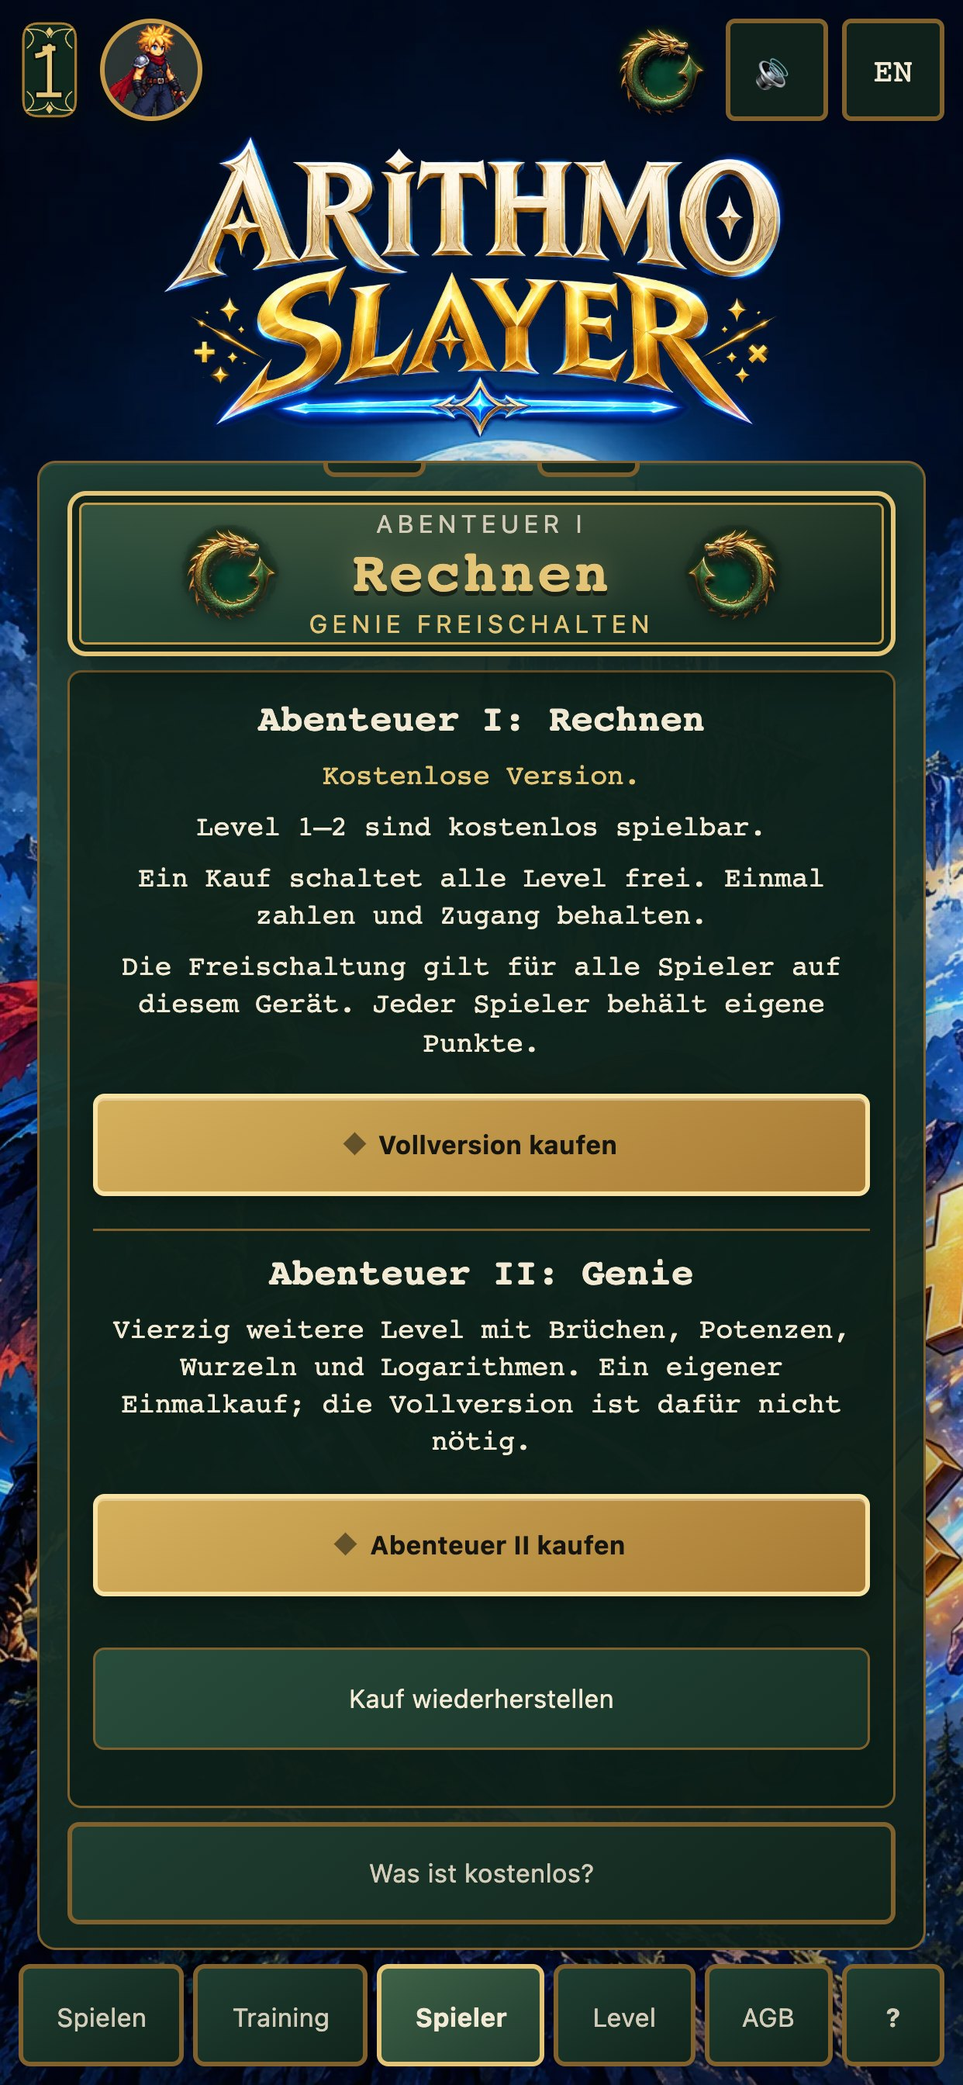
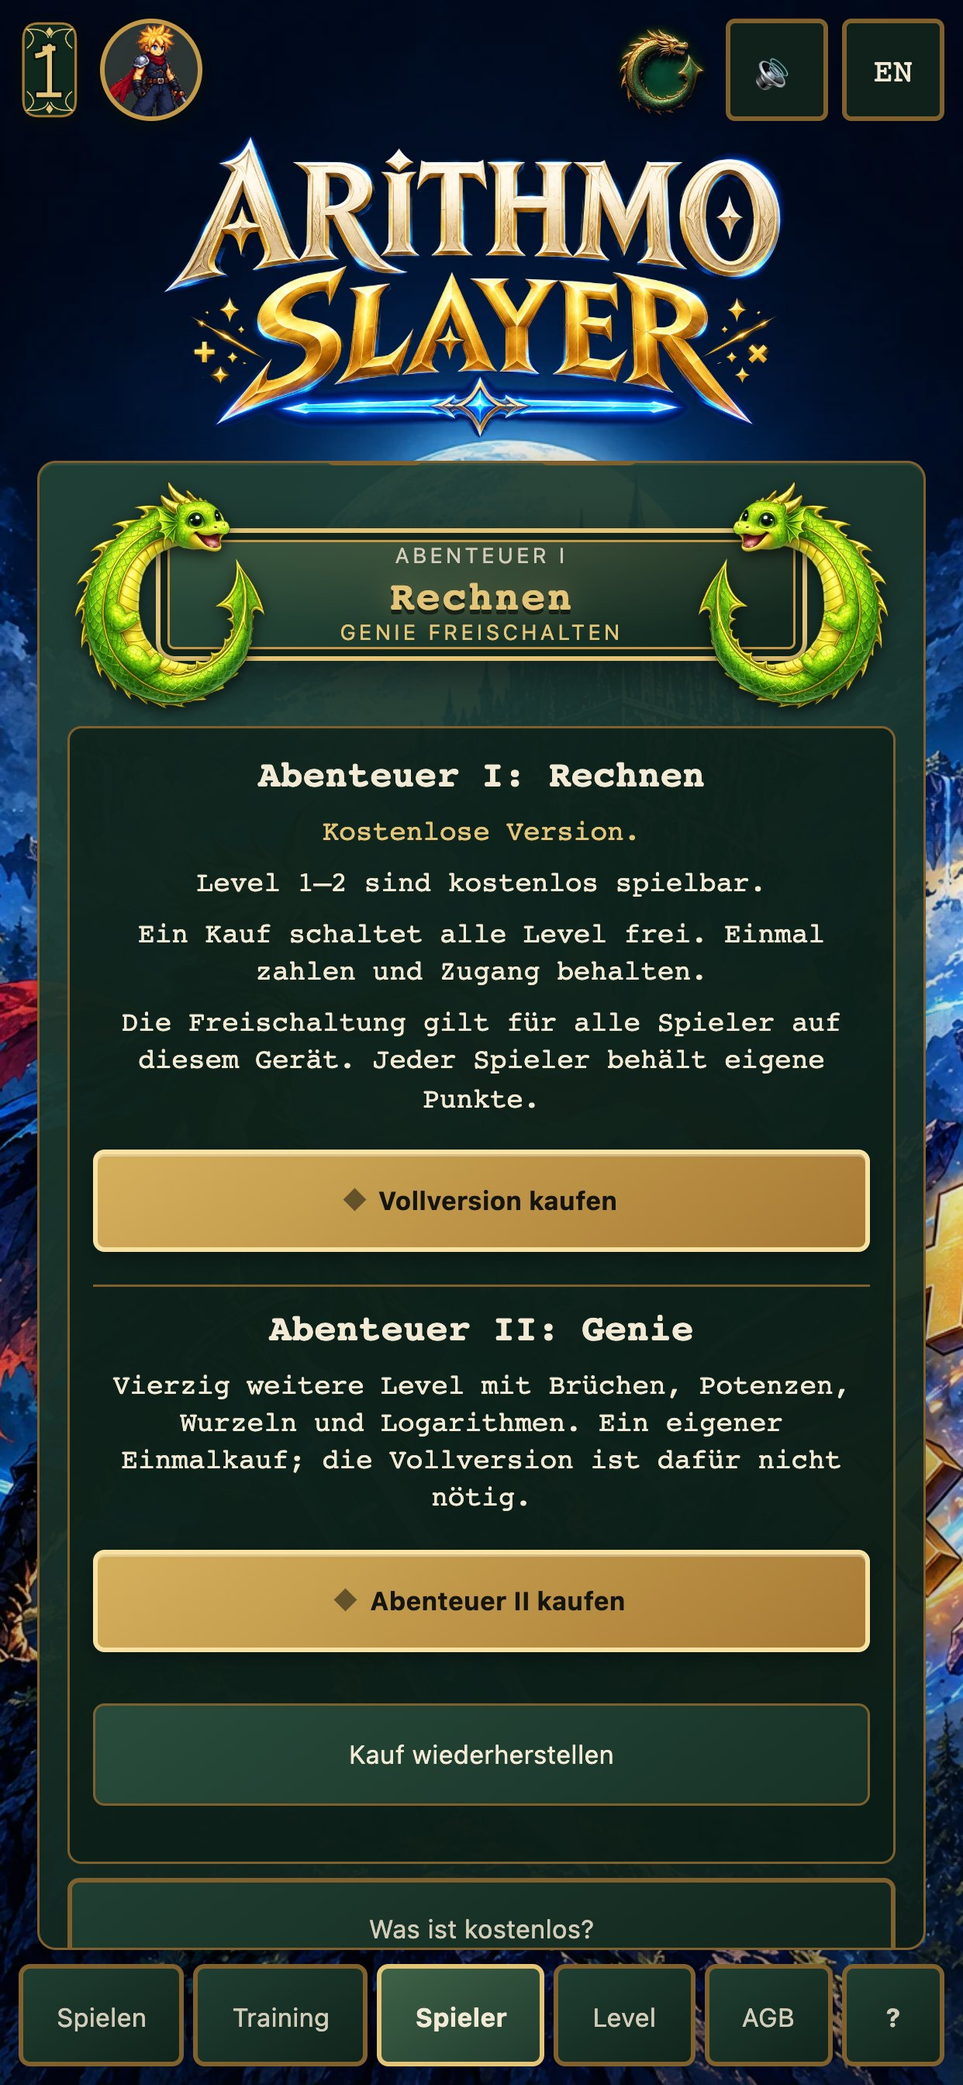
feat(ffm): young and ancient dragons frame the campaign switch
The brass dragon rings on the campaign switch and the title's Campaign II picture are
replaced by the new art (game/art/ui/): a young dragon pair while the button names
Campaign I, an ancient pair for Campaign II (campaignDragon() in campaign2/selection.js,
swapped by renderCampaignSwitch). The pieces are absolutely placed half outside the
button and overhang it; everything is derived from one height (--switch-h) that follows
the column and viewport, so the button reserves exactly the side padding, narrower width
and vertical margin the dragons need and the three text lines always fit the frame. A
300px-narrow column gets slightly smaller dragons, a short landscape title a flatter
ancient pair. Placed with translate/scale, not transform (reduced-motion resets it).

The four webp files are required bundle files for the apps (bundle-check); the art's
PROVENANCE.md stays out of the bundle. Review screenshots recaptured.

Changed region(s): [[0.0612, 0.2188, 0.9485, 0.9375]]

diff --git a/sites/ffm/static/styles.css b/sites/ffm/static/styles.css
@@ -3641,17 +3641,22 @@ body:not(.legal-body) {
 .m2-paren { opacity: 0.9; }
 .m2-log { margin-right: 0.15em; }
 
-/* The campaign switch (Players page in the app, Play page on the web) and the
- * Campaign II picture on the app's title screen. They wear the menu colours:
- * a forest panel inside the thick-and-thin brass frame of the level numerals,
- * with the brass dragon ring of the intro button on both sides (its circular
- * arrow doubles as "switch"). The text is the game's own: the heading monospace
- * for the campaign name, the UI face for the small lines.
+/* The campaign switch (Players page in the app, account profile on the web) and the
+ * Campaign II picture on the title screen. They wear the menu colours: a forest panel
+ * inside the thick-and-thin brass frame of the level numerals. A pair of dragons frames
+ * the button, one curled around each end: a young dragon while it names Campaign I, an
+ * ancient one for Campaign II (data-dragon, swapped by main.js; art in game/art/ui/). The
+ * text is the game's own: the heading monospace for the campaign name, the UI face for the
+ * small lines.
  *
- * Everything is sized from the space the switch gets (container width capped by
- * the viewport height on the switch, viewport-min units on the title picture,
- * which has no container of its own), so a 320px phone or a short
- * landscape band shrinks it instead of letting the name run out of the frame. */
+ * Everything is derived from one height, --switch-h, which follows the space the switch
+ * gets (container width capped by the viewport height on the switch, viewport-min units on
+ * the title picture, which has no container of its own). The dragons are that height times
+ * --dragon-scale tall, sit half outside the button and overhang above and below; the button
+ * reserves exactly that room (side padding so the text clears them, a narrower width so
+ * their outer halves stay inside the column, vertical margin for the overhang). So a 320px
+ * phone or a short landscape band shrinks the whole piece instead of letting the name or a
+ * dragon run out of the frame. */
 .campaign-switch {
   container-type: inline-size;
   display: flex;
@@ -3664,13 +3669,24 @@ body:not(.legal-body) {
 }
 .campaign-switch[hidden] { display: none; }
 .campaign-switch-btn, .campaign-emblem {
+  /* Young dragon (Campaign I): 402x480 art, 1.75x the button tall. */
+  --dragon-scale: 1.75;
+  --dragon-aspect: 0.8375;
+  --dragon-w: calc(var(--switch-h) * var(--dragon-scale) * var(--dragon-aspect));
+  /* How far each piece reaches out of the button: 45% of its width. */
+  --dragon-out: calc(var(--dragon-w) * 0.45);
   position: relative;
   display: flex;
   align-items: center;
   justify-content: center;
   box-sizing: border-box;
   min-width: 0;
+  height: var(--switch-h);
   min-height: 44px;
+  margin-block: calc(var(--switch-h) * (var(--dragon-scale) - 1) / 2);
+  padding-block: 0;
+  padding-inline: calc(var(--dragon-w) * 0.55);
+  overflow: visible;
   border: 2px solid var(--brass-light);
   border-radius: 8px;
   background:
@@ -3683,25 +3699,36 @@ body:not(.legal-body) {
   cursor: pointer;
   touch-action: manipulation;
 }
+/* Ancient dragon (Campaign II): 354x480 art, 2.1x the button tall. */
+:is(.campaign-switch-btn, .campaign-emblem)[data-dragon="ancient"] {
+  --dragon-scale: 2.1;
+  --dragon-aspect: 0.7375;
+}
 .campaign-switch-btn {
-  gap: clamp(4px, min(3cqi, 3vh), 14px);
-  width: min(100%, 440px);
-  max-width: 100%;
-  padding: clamp(3px, min(1.6cqi, 1.5vh), 10px) clamp(6px, 3cqi, 16px);
+  --switch-h: clamp(56px, min(16cqi, 13vh), 80px);
+  width: min(calc(100% - 2 * var(--dragon-out)), 440px);
+  max-width: calc(100% - 2 * var(--dragon-out));
 }
 .campaign-switch-btn:hover { border-color: var(--focus-ring); background: radial-gradient(120% 140% at 50% 0%, rgba(228, 197, 119, 0.26), transparent 62%), linear-gradient(145deg, #315641, #19372b); }
-.campaign-switch-btn:active { transform: scale(0.98); }
+.campaign-switch-btn:active { scale: 0.98; }
 .campaign-switch-btn:focus-visible, .campaign-emblem:focus-visible { outline: 3px solid var(--focus-ring); outline-offset: 2px; }
+/* The pieces are decoration over the frame: absolutely placed, vertically centred, half
+ * outside. `translate`, not `transform`: the reduced-motion rule resets transform on every
+ * element and would pull the dragons back into the text. */
 .campaign-switch-dragon {
-  flex: 0 1 auto;
-  width: clamp(24px, min(13cqi, 12vh), 56px);
-  height: auto;
-  aspect-ratio: 1;
-  object-fit: contain;
+  position: absolute;
+  top: 50%;
+  height: calc(var(--switch-h) * var(--dragon-scale));
+  width: auto;
+  max-width: none;
+  pointer-events: none;
   filter: drop-shadow(0 2px 3px rgba(0, 0, 0, 0.6));
 }
-.campaign-switch-dragon--mirror { transform: scaleX(-1); }
+.campaign-switch-dragon--left { left: 0; translate: -45% -50%; }
+.campaign-switch-dragon--right { right: 0; translate: 45% -50%; }
 .campaign-switch-text {
+  position: relative;
+  z-index: 1;
   display: flex;
   flex-direction: column;
   align-items: center;
@@ -3711,8 +3738,10 @@ body:not(.legal-body) {
 }
 .campaign-switch-eyebrow, .campaign-switch-status {
   font-family: var(--font-ui);
-  font-size: clamp(9px, min(3cqi, 3.4vh), 12px);
-  letter-spacing: 0.18em;
+  /* The three lines are sized from the button height, so they always fit inside the
+   * double frame: 1.15 x (0.16 + 0.31 + 0.16) of it, plus the 12px of frame. */
+  font-size: calc(var(--switch-h) * 0.16);
+  letter-spacing: 0.14em;
   text-transform: uppercase;
   white-space: nowrap;
 }
@@ -3720,12 +3749,20 @@ body:not(.legal-body) {
 .campaign-switch-status { color: var(--brass-light); }
 .campaign-switch-title {
   font-family: var(--font-prose);
-  font-size: clamp(14px, min(7cqi, 6.5vh), 28px);
+  font-size: calc(var(--switch-h) * 0.31);
   font-weight: 700;
   letter-spacing: 0.04em;
   white-space: nowrap;
   color: var(--brass-light);
   text-shadow: 0 2px 0 rgba(0, 0, 0, 0.55), 0 0 12px rgba(228, 197, 119, 0.35);
+}
+/* A narrow column (a 320px phone) cannot give the name, "Switch to Arithmetic" and two
+ * full-size dragons their room at a readable size: the dragons get a little smaller and
+ * the small lines tighten their spacing, instead of the text running into the dragons. */
+@container (max-width: 300px) {
+  .campaign-switch-btn[data-dragon] { --dragon-scale: 1.45; }
+  .campaign-switch-btn[data-dragon="ancient"] { --dragon-scale: 1.7; }
+  .campaign-switch-btn :is(.campaign-switch-eyebrow, .campaign-switch-status) { letter-spacing: 0.06em; }
 }
 /* Campaign II is the one being played: the dragons glow a little brighter. */
 .campaign-switch-btn[aria-pressed="true"] .campaign-switch-dragon { filter: drop-shadow(0 0 6px rgba(228, 197, 119, 0.7)); }
@@ -3733,16 +3770,20 @@ body:not(.legal-body) {
  * viewport side: a landscape phone's 320px height shrinks it like a portrait
  * phone's 320px width. */
 .campaign-emblem {
-  gap: clamp(4px, 2vmin, 12px);
+  --switch-h: clamp(38px, 9vmin, 60px);
   width: auto;
-  max-width: 100%;
-  margin: 0 auto;
-  padding: clamp(3px, 1vmin, 8px) clamp(6px, 2.5vmin, 14px);
+  max-width: calc(100% - 2 * var(--dragon-out));
+  margin-inline: auto;
 }
 .campaign-emblem[hidden] { display: none; }
-.campaign-emblem .campaign-switch-dragon { width: clamp(22px, 8vmin, 44px); }
-.campaign-emblem .campaign-switch-eyebrow { font-size: clamp(8px, 2.4vmin, 11px); }
-.campaign-emblem .campaign-switch-title { font-size: clamp(13px, 4.6vmin, 24px); }
+/* A phone held sideways has no height to spare in the title's intro column: the ancient
+ * dragons barely overhang there, so the picture does not push "Choose your difficulty"
+ * under the navigation. */
+@media (orientation: landscape) and (max-height: 460px) {
+  .campaign-emblem[data-dragon="ancient"] { --dragon-scale: 1.3; }
+}
+.campaign-emblem .campaign-switch-eyebrow { font-size: calc(var(--switch-h) * 0.2); }
+.campaign-emblem .campaign-switch-title { font-size: calc(var(--switch-h) * 0.38); }
 /* end campaign switch */
 .m2-intro-math { font-size: 1.8em; text-align: center; margin: 0.4em 0; }
 .mc-btn .m2-expr { font-size: 1.15em; justify-content: center; }

diff --git a/sites/ffm/static/game/campaign-switch.test.js b/sites/ffm/static/game/campaign-switch.test.js
@@ -4,7 +4,7 @@
 import { test } from 'node:test';
 import assert from 'node:assert/strict';
 import { readFileSync } from 'node:fs';
-import { createCampaignSelection, SELECTION_KEY_PREFIX } from './campaign2/selection.js';
+import { createCampaignSelection, SELECTION_KEY_PREFIX, campaignDragon, campaignDragonSrc } from './campaign2/selection.js';
 
 const i18n = readFileSync(new URL('./i18n.js', import.meta.url), 'utf8');
 const main = readFileSync(new URL('./main.js', import.meta.url), 'utf8');
@@ -68,7 +68,7 @@ test('Campaign II is offered with no level gate and no reveal flag', () => {
 });
 
 test('the title shows the Campaign II picture only while it is chosen, and it leads to the switch', () => {
-  assert.match(html, /<button type="button" id="campaign-emblem" class="campaign-emblem" data-title-target="family" hidden/);
+  assert.match(html, /<button type="button" id="campaign-emblem" class="campaign-emblem" data-title-target="family" data-dragon="ancient" hidden/);
   assert.match(main, /emblem\.hidden = wrap\.hidden \|\| selectedCampaign !== 2;/);
   // The web has no Players page: the picture opens the account profile that holds the switch.
   assert.match(main, /emblem\.removeAttribute\('data-title-target'\);[\s\S]{0,400}showAccountTab\(tabAccountProfile, accountProfilePanel\);/);
@@ -87,11 +87,56 @@ test('the switch names the campaign being played, with dragons and in the menu c
   assert.doesNotMatch(rules.slice(0, rules.indexOf('/* end campaign switch */')), /#7c4dff|#cdb6ff|purple/i);
 });
 
-test('the switch and the picture scale with the space they get', () => {
+test('the switch and the picture scale with the space they get, dragons included', () => {
   const rules = css.slice(css.indexOf('.campaign-switch {'), css.indexOf('/* end campaign switch */'));
-  assert.match(rules, /\.campaign-switch-btn \{[^}]*max-width: 100%;/);
-  assert.match(rules, /\.campaign-switch-title \{[^}]*font-size: clamp\(/);
   assert.match(rules, /container-type: inline-size;/);
+  // One height drives everything; the switch follows its column and the viewport height.
+  assert.match(rules, /\.campaign-switch-btn \{\s*--switch-h: clamp\([^;]*cqi[^;]*vh[^;]*\);/);
+  assert.match(rules, /\.campaign-emblem \{\s*--switch-h: clamp\([^;]*vmin[^;]*\);/);
+  // The dragons' outer halves stay inside the column (the old small-screen overflow).
+  assert.match(rules, /width: min\(calc\(100% - 2 \* var\(--dragon-out\)\), 440px\);/);
+  assert.match(rules, /max-width: calc\(100% - 2 \* var\(--dragon-out\)\);/);
+  // The text clears the dragons and fits in the frame, the overhang has its room.
+  assert.match(rules, /padding-inline: calc\(var\(--dragon-w\) \* 0\.55\);/);
+  assert.match(rules, /margin-block: calc\(var\(--switch-h\) \* \(var\(--dragon-scale\) - 1\) \/ 2\);/);
+  assert.match(rules, /\.campaign-switch-title \{[^}]*font-size: calc\(var\(--switch-h\) \* 0\.31\);/);
+  // Pieces are placed with translate, never transform (the reduced-motion rule resets transform).
+  assert.match(rules, /\.campaign-switch-dragon--left \{ left: 0; translate: -45% -50%; \}/);
+  assert.match(rules, /\.campaign-switch-dragon--right \{ right: 0; translate: 45% -50%; \}/);
+  assert.doesNotMatch(rules, /(^|[^-])transform:/m);
+  assert.match(rules, /@container \(max-width: 300px\)/, 'a 320px phone gets smaller dragons, not clipped text');
+});
+
+test('the right dragon frames each campaign, and every piece exists', () => {
+  assert.deepEqual(campaignDragon(1), { kind: 'young', width: 402, height: 480 });
+  assert.deepEqual(campaignDragon(2), { kind: 'ancient', width: 354, height: 480 });
+  assert.equal(campaignDragon(undefined).kind, 'young', 'anything but Campaign II is Campaign I');
+  for (const campaign of [1, 2]) {
+    const { kind, width, height } = campaignDragon(campaign);
+    for (const side of ['left', 'right']) {
+      const src = campaignDragonSrc(kind, side);
+      const file = readFileSync(new URL(`../${src}`, import.meta.url));
+      // RIFF....WEBP, and the VP8X canvas size matches the declared width/height.
+      assert.equal(file.toString('latin1', 0, 4), 'RIFF', src);
+      assert.equal(file.toString('latin1', 8, 12), 'WEBP', src);
+      if (file.toString('latin1', 12, 16) === 'VP8X') {
+        assert.equal(file.readUIntLE(24, 3) + 1, width, `${src} width`);
+        assert.equal(file.readUIntLE(27, 3) + 1, height, `${src} height`);
+      }
+    }
+  }
+  // The markup starts in Campaign I (young) on the switch; the title picture is Campaign II (ancient).
+  const button = html.slice(html.indexOf('id="genius-campaign-btn"'), html.indexOf('</button>', html.indexOf('id="genius-campaign-btn"')));
+  assert.match(html, /id="genius-campaign-btn" class="campaign-switch-btn" data-dragon="young"/);
+  assert.match(button, /src="game\/art\/ui\/campaign-dragon-young-left\.webp" alt="" width="402" height="480"/);
+  assert.match(button, /src="game\/art\/ui\/campaign-dragon-young-right\.webp" alt="" width="402" height="480"/);
+  const emblem = html.slice(html.indexOf('id="campaign-emblem"'), html.indexOf('</button>', html.indexOf('id="campaign-emblem"')));
+  assert.match(emblem, /campaign-dragon-ancient-left\.webp" alt="" width="354" height="480"/);
+  assert.match(emblem, /campaign-dragon-ancient-right\.webp" alt="" width="354" height="480"/);
+  // main.js swaps the pair with the campaign the button names.
+  assert.match(main, /const dragon = campaignDragon\(selectedCampaign\);[\s\S]{0,500}piece\.src = campaignDragonSrc\(dragon\.kind, side\);/);
+  assert.match(css, /\[data-dragon="ancient"\] \{\s*--dragon-scale: 2\.1;\s*--dragon-aspect: 0\.7375;/);
+  assert.doesNotMatch(html, /campaign-switch-dragon--mirror|campaign-switch-dragon" src="game\/intro-replay/);
 });
 
 test('the web profile that holds the switch scrolls instead of cutting it off', () => {

diff --git a/sites/ffm/static/index.html b/sites/ffm/static/index.html
@@ -107,26 +107,28 @@
       <!-- The picture of Campaign II, shown while the active player has chosen it. The switch
            itself lives on the Players page in the app and in the account profile on the web
            (main.js moves it there); a tap on the picture leads to it. -->
-      <button type="button" id="campaign-emblem" class="campaign-emblem" data-title-target="family" hidden data-i18n-aria-label="campaign.emblem" aria-label="Campaign II: Genius. Change it on the Players page.">
-        <img class="campaign-switch-dragon" src="game/intro-replay.webp" alt="" width="176" height="176">
+      <button type="button" id="campaign-emblem" class="campaign-emblem" data-title-target="family" data-dragon="ancient" hidden data-i18n-aria-label="campaign.emblem" aria-label="Campaign II: Genius. Change it on the Players page.">
+        <img class="campaign-switch-dragon campaign-switch-dragon--left" src="game/art/ui/campaign-dragon-ancient-left.webp" alt="" width="354" height="480">
         <span class="campaign-switch-text" aria-hidden="true">
           <span class="campaign-switch-eyebrow" data-i18n="campaign.switch.eyebrow2">Campaign II</span>
           <span class="campaign-switch-title" data-i18n="campaign.switch.title2">Genius</span>
         </span>
-        <img class="campaign-switch-dragon campaign-switch-dragon--mirror" src="game/intro-replay.webp" alt="" width="176" height="176">
+        <img class="campaign-switch-dragon campaign-switch-dragon--right" src="game/art/ui/campaign-dragon-ancient-right.webp" alt="" width="354" height="480">
       </button>
       <!-- Always offered (campaign2/access.js): Campaign II needs no Campaign I progress and not
            the full unlock. Names the campaign being played; a tap switches to the other one, or
            opens the Campaign II purchase (app) or the subscription (web) while it is locked. -->
       <div id="genius-campaign" class="campaign-switch" hidden>
-        <button type="button" id="genius-campaign-btn" class="campaign-switch-btn" aria-pressed="false">
-          <img class="campaign-switch-dragon" src="game/intro-replay.webp" alt="" width="176" height="176">
+        <!-- The dragons follow the campaign being played: young for Campaign I, ancient for
+             Campaign II (main.js swaps them; art and provenance in game/art/ui/). -->
+        <button type="button" id="genius-campaign-btn" class="campaign-switch-btn" data-dragon="young" aria-pressed="false">
+          <img class="campaign-switch-dragon campaign-switch-dragon--left" src="game/art/ui/campaign-dragon-young-left.webp" alt="" width="402" height="480">
           <span class="campaign-switch-text">
             <span class="campaign-switch-eyebrow" id="genius-eyebrow" data-i18n="campaign.switch.eyebrow1">Campaign I</span>
             <span class="campaign-switch-title" id="genius-title" data-i18n="campaign.switch.title1">Arithmetic</span>
             <span class="campaign-switch-status" id="genius-status" data-i18n="campaign.switch.toGenius">Switch to Genius</span>
           </span>
-          <img class="campaign-switch-dragon campaign-switch-dragon--mirror" src="game/intro-replay.webp" alt="" width="176" height="176">
+          <img class="campaign-switch-dragon campaign-switch-dragon--right" src="game/art/ui/campaign-dragon-young-right.webp" alt="" width="402" height="480">
         </button>
         <p id="campaign2-note" class="splash-subtitle" hidden></p>
       </div>

diff --git a/sites/ffm/static/game/main.js b/sites/ffm/static/game/main.js
@@ -74,7 +74,7 @@ import { bossRoundKinds2, isBossRoundLevel2, TOTAL_LEVELS_2 } from './campaign2/
 import { getCampaign2LevelConfig, ABILITY_LEVEL } from './campaign2/config.js';
 import { getSkillIntro2, INTRO_TEXT_2 } from './campaign2/intro-text.js';
 import { createCampaign2Progress } from './campaign2/progress.js';
-import { createCampaignSelection } from './campaign2/selection.js';
+import { createCampaignSelection, campaignDragon, campaignDragonSrc } from './campaign2/selection.js';
 import { campaign2Access, campaignSwitchVisible } from './campaign2/access.js';
 import { expressionHtml } from './campaign2/math-render.js';
 import { runestoneDataUri } from './runestone.js';
@@ -2203,6 +2203,18 @@ async function renderCampaignSwitch() {
     set('genius-status', inTwo ? 'campaign.switch.toArithmetic' : access.granted ? 'campaign.switch.toGenius' : 'campaign.switch.unlock');
     button.setAttribute('aria-pressed', String(inTwo));
     button.dataset.campaign = String(selectedCampaign);
+    // The dragon pair belongs to the campaign the button names: young for I, ancient for II.
+    const dragon = campaignDragon(selectedCampaign);
+    if (button.dataset.dragon !== dragon.kind) {
+      button.dataset.dragon = dragon.kind;
+      for (const side of ['left', 'right']) {
+        const piece = button.querySelector(`.campaign-switch-dragon--${side}`);
+        if (!piece) continue;
+        piece.width = dragon.width;
+        piece.height = dragon.height;
+        piece.src = campaignDragonSrc(dragon.kind, side);
+      }
+    }
     const note = document.getElementById('campaign2-note');
     if (note) {
       note.hidden = access.granted || !inTwo;

diff --git a/sites/ffm/static/game/campaign2/selection.js b/sites/ffm/static/game/campaign2/selection.js
@@ -21,3 +21,22 @@ export function createCampaignSelection({ storage = globalThis.localStorage, pla
     },
   };
 }
+
+// The dragons that frame the campaign switch: a young one for Campaign I (Arithmetic), an
+// ancient one for Campaign II (Genius). Each is a left and a right piece (game/art/ui/, see
+// its PROVENANCE.md); width/height are the files' pixel sizes, so the <img> keeps its
+// aspect before the picture has loaded.
+export const CAMPAIGN_DRAGONS = Object.freeze({
+  1: Object.freeze({ kind: 'young', width: 402, height: 480 }),
+  2: Object.freeze({ kind: 'ancient', width: 354, height: 480 }),
+});
+
+/** The dragon of a campaign (anything but 2 is Campaign I). */
+export function campaignDragon(campaign) {
+  return CAMPAIGN_DRAGONS[campaign === 2 ? 2 : 1];
+}
+
+/** The page-relative path of one piece: side is 'left' or 'right'. */
+export function campaignDragonSrc(kind, side) {
+  return `game/art/ui/campaign-dragon-${kind}-${side}.webp`;
+}

diff --git a/sites/ffm/static/game/art/ui/PROVENANCE.md b/sites/ffm/static/game/art/ui/PROVENANCE.md
@@ -11,7 +11,7 @@ the two ends match exactly.
 | `campaign-dragon-ancient-left.webp` | 354x480 | `c4735d903ea1` |
 | `campaign-dragon-ancient-right.webp` | 354x480 | `24a1f8c46006` |
 
-Not wired into the game yet. This is art only.
+Wired into the campaign switch and the title-screen Campaign II picture (`static/index.html`, `styles.css`, `game/campaign2/selection.js`); the apps ship all four files (`mobile/scripts/bundle-check.mjs`).
 
 ## Generation
 
